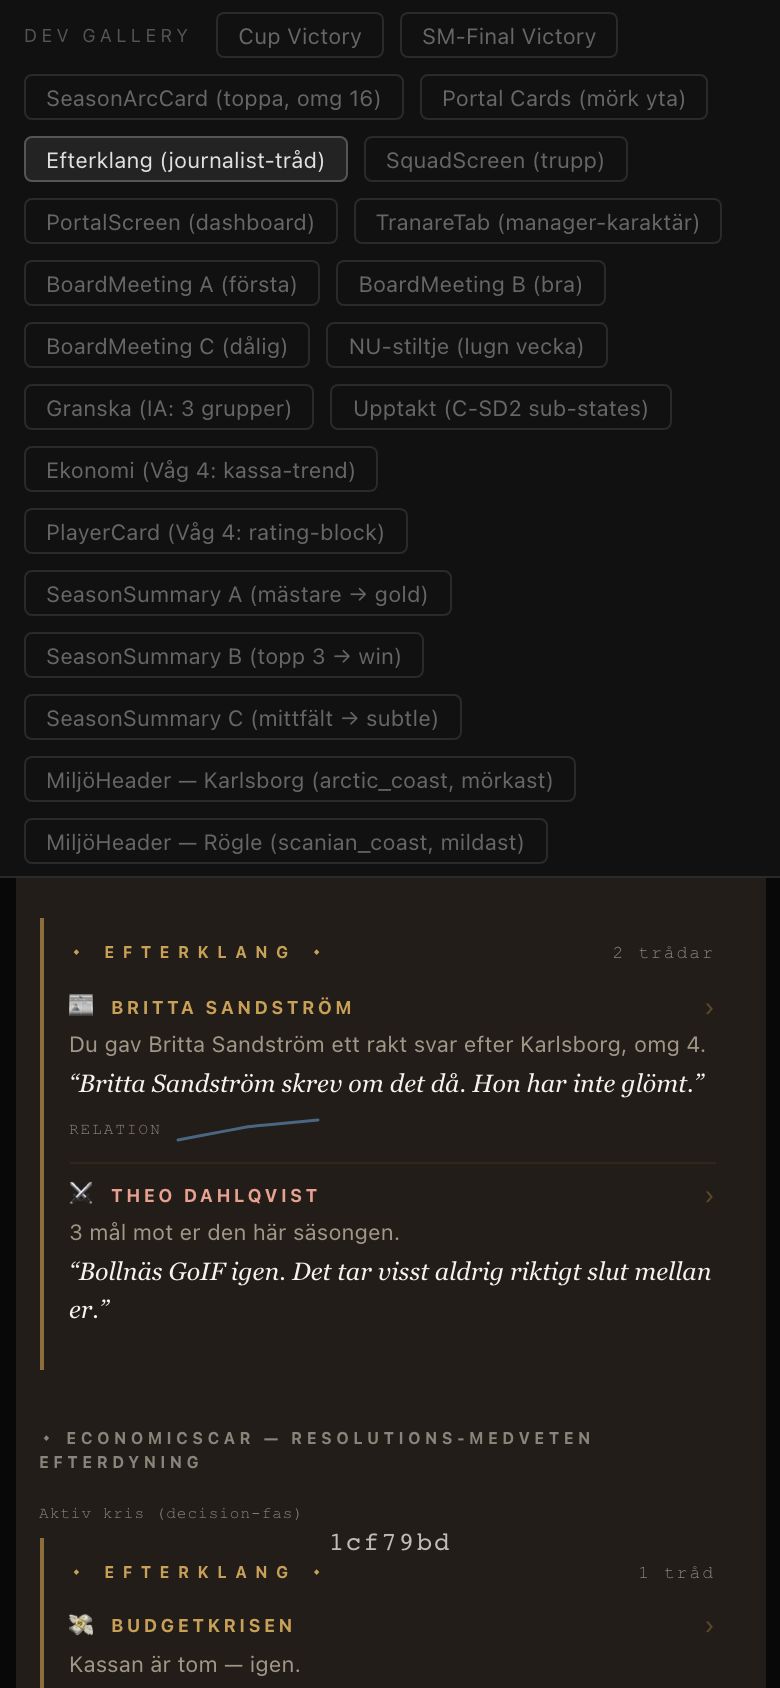
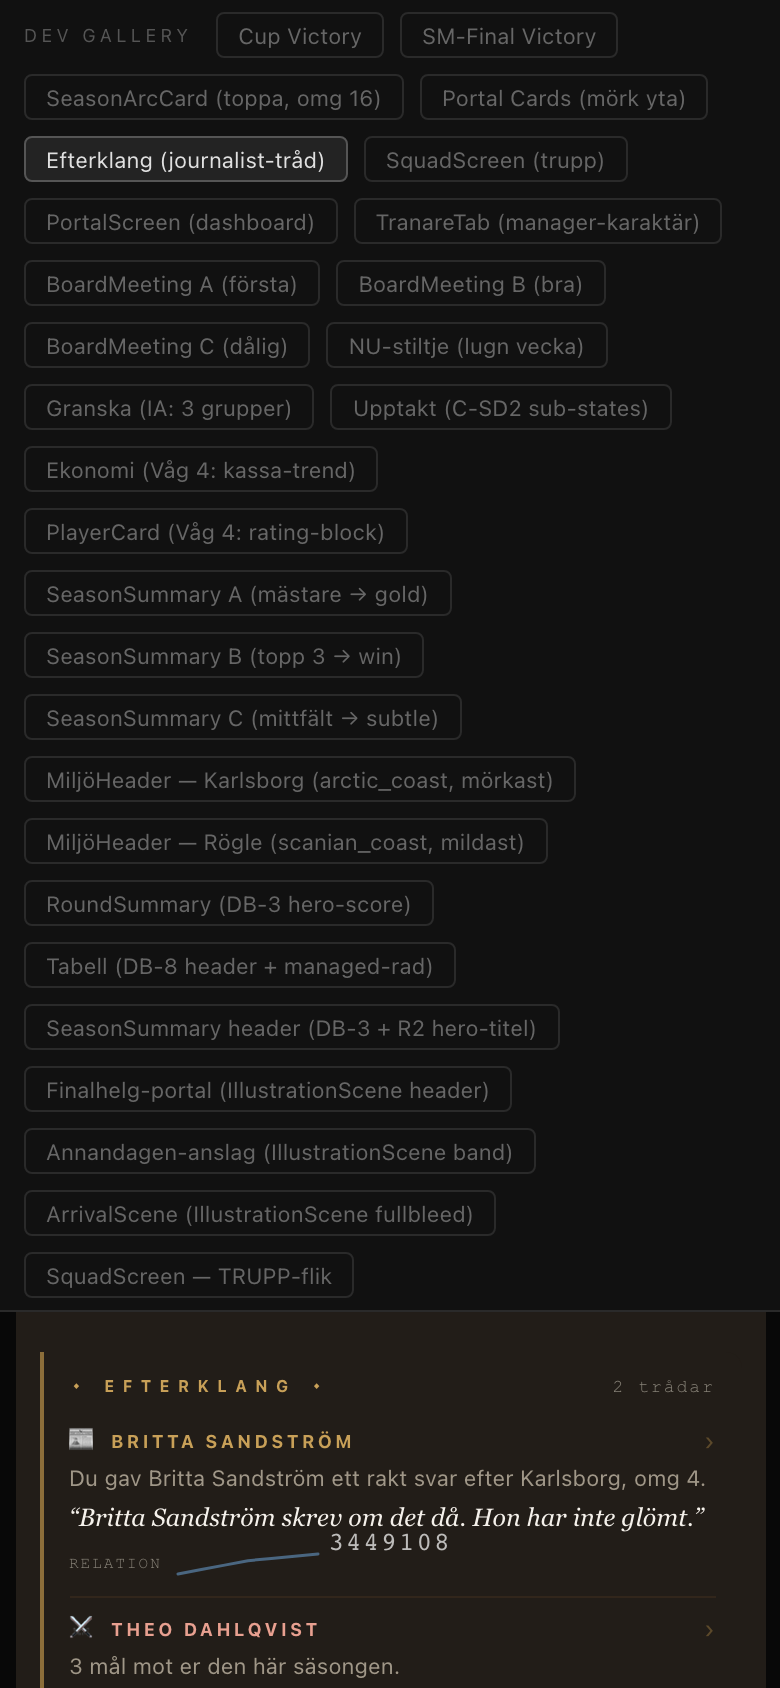
test(dev): full svep-täckning i /dev/scenes — 7 nya ytor + bilage-regen (28 ytor)
Audit-spec task #1 (full headless-täckning) — alla svep-ytor renderar nu isolerat med
fingerad state, så ◉ syn/Playwright kan fånga dem utan live-playtest:
- roundsummary → RoundSummaryScreen (DB-3 hero-score, granskaGame har lastCompletedFixtureId).
- tabell → TabellScreen (DB-8 solid header + managed-rad).
- season-header → SeasonSummaryScreen (game.seasonSummaries) — fångar 52px R2-1-hero-titeln
  + ÅRSBOK-eyebrow + R2-2 btn-hero, som de hand-byggda season-a/b/c-scenerna saknade.
- finalhelg → PortalScreen med playoffBracket.final (pågående) → isSmFinal → IllustrationScene
  header-band.
- annandagen → AnslagOverlay league_midwinter → IllustrationScene band.
- arrival → ArrivalScene → IllustrationScene fullbleed-bakgrund.
- squad-trupp → SquadScreen, capture klickar TRUPP-fliken (selektor 👥 TRUPP för att inte
  träffa dev-navens "SquadScreen (trupp)").

capture-scenes.mjs: stöd för post-load-klick (3:e tuple-element). Bilagan regenererad,
28 ytor, alla gröna (inga CAPTURE FAILED). Verifierat: season-header visar hero-titeln,
finalhelg header-bandet, squad-trupp rätt flik.

Bygg ren. Rör ej matchCore (motor-WIP, committad av motorsidan) eller stash@{0}.

diff --git a/src/presentation/screens/dev/DevScenesScreen.tsx b/src/presentation/screens/dev/DevScenesScreen.tsx
@@ -20,6 +20,11 @@ import { PortalScreen } from '../PortalScreen'
 import { TranareTab } from '../../components/club/TranareTab'
 import { BoardMeetingScene } from '../scenes/BoardMeetingScene'
 import { GranskaScreen } from '../granska/GranskaScreen'
+import { RoundSummaryScreen } from '../RoundSummaryScreen'
+import { TabellScreen } from '../TabellScreen'
+import { SeasonSummaryScreen } from '../SeasonSummaryScreen'
+import { ArrivalScene } from '../ArrivalScene'
+import { AnslagOverlay } from '../../components/anslag/AnslagOverlay'
 import { PortalUpptakt } from '../../components/portal/PortalUpptakt'
 import { NextMatchPrimary } from '../../components/portal/primary/NextMatchPrimary'
 import { EkonomiTab } from '../../components/club/EkonomiTab'
@@ -30,6 +35,7 @@ import { MiljoHeader } from '../../components/environment/MiljoHeader'
 import { useGameStore } from '../../store/gameStore'
 
 type SceneId = 'cup-victory' | 'sm-victory' | 'season-arc' | 'portal-cards' | 'efterklang' | 'squad' | 'portal' | 'tranare' | 'board-a' | 'board-b' | 'board-c' | 'stillness' | 'granska' | 'upptakt' | 'ekonomi' | 'playercard' | 'season-a' | 'season-b' | 'season-c' | 'miljoheader-karlsborg' | 'miljoheader-rogle'
+  | 'roundsummary' | 'tabell' | 'season-header' | 'finalhelg' | 'annandagen' | 'arrival' | 'squad-trupp'
 
 const SCENES: { id: SceneId; label: string }[] = [
   { id: 'cup-victory',  label: 'Cup Victory' },
@@ -53,6 +59,13 @@ const SCENES: { id: SceneId; label: string }[] = [
   { id: 'season-c',     label: 'SeasonSummary C (mittfält → subtle)' },
   { id: 'miljoheader-karlsborg', label: 'MiljöHeader — Karlsborg (arctic_coast, mörkast)' },
   { id: 'miljoheader-rogle', label: 'MiljöHeader — Rögle (scanian_coast, mildast)' },
+  { id: 'roundsummary',  label: 'RoundSummary (DB-3 hero-score)' },
+  { id: 'tabell',        label: 'Tabell (DB-8 header + managed-rad)' },
+  { id: 'season-header', label: 'SeasonSummary header (DB-3 + R2 hero-titel)' },
+  { id: 'finalhelg',     label: 'Finalhelg-portal (IllustrationScene header)' },
+  { id: 'annandagen',    label: 'Annandagen-anslag (IllustrationScene band)' },
+  { id: 'arrival',       label: 'ArrivalScene (IllustrationScene fullbleed)' },
+  { id: 'squad-trupp',   label: 'SquadScreen — TRUPP-flik' },
 ]
 
 // ── Fingered data ────────────────────────────────────────────────────────────
@@ -376,6 +389,18 @@ function makeSeasonSummary(overrides: Record<string, unknown>) {
 const seasonSumChampion = makeSeasonSummary({ finalPosition: 1, playoffResult: 'champion', expectedVerdict: 'exceeded', expectationVerdict: 'exceeded' as const })
 const seasonSumTopThree = makeSeasonSummary({ finalPosition: 2, playoffResult: 'finalist', expectationVerdict: 'met' as const })
 const seasonSumMidtable = makeSeasonSummary({ finalPosition: 6, playoffResult: 'quarterfinal', expectationVerdict: 'met' as const, formTrend: 'stable' as const })
+
+// Full-täcknings-scener (audit-spec task #1) — renderar riktiga skärmar headless.
+// SeasonSummary läser game.seasonSummaries (sista) → hela skärmen inkl. ÅRSBOK/hero-titel/CTA.
+const seasonHeaderGame = makeGame(makeLeagueFixtures(), { seasonSummaries: [seasonSumChampion] })
+// Finalhelg: playoffBracket med managed i en pågående final (winnerId null) → isSmFinal.
+const finalhelgGame = makeGame(makeLeagueFixtures(), {
+  playoffBracket: {
+    season: 8, status: 'final', champion: null,
+    quarterFinals: [], semiFinals: [],
+    final: { id: 'pf-final', round: 'final', homeClubId: HOME_ID, awayClubId: AWAY_ID, fixtures: [], homeWins: 1, awayWins: 1, winnerId: null, loserId: null },
+  },
+})
 const seasonGameA = makeGame(makeLeagueFixtures(), { seasonSummaries: [seasonSumChampion] })
 const seasonGameB = makeGame(makeLeagueFixtures(), { seasonSummaries: [seasonSumTopThree] })
 const seasonGameC = makeGame(makeLeagueFixtures(), { seasonSummaries: [seasonSumMidtable] })
@@ -423,6 +448,8 @@ export function DevScenesScreen() {
     : null) as SceneId | null
   const [scene, setScene] = useState<SceneId>(initialScene ?? 'cup-victory')
   const storeReady = useGameStore(s => s.game?.lastCompletedFixtureId === 'fx-granska')
+  const seasonReady = useGameStore(s => (s.game?.seasonSummaries?.length ?? 0) > 0)
+  const finalReady = useGameStore(s => !!s.game?.playoffBracket?.final)
 
   // Seed the store so all screens that call useGameStore() work
   useEffect(() => {
@@ -439,6 +466,10 @@ export function DevScenesScreen() {
       : scene === 'season-a' ? seasonGameA
       : scene === 'season-b' ? seasonGameB
       : scene === 'season-c' ? seasonGameC
+      : scene === 'roundsummary' || scene === 'tabell' ? granskaGame
+      : scene === 'season-header' ? seasonHeaderGame
+      : scene === 'finalhelg' ? finalhelgGame
+      : scene === 'arrival' || scene === 'squad-trupp' || scene === 'annandagen' ? squadGame
       : portalGame
     useGameStore.setState({ game: g, roundSummary: scene === 'granska' ? granskaRoundSummary : null } as never)
   }, [scene])
@@ -557,6 +588,43 @@ export function DevScenesScreen() {
         {scene === 'portal' && (
           <div style={{ height: '812px', overflow: 'hidden', position: 'relative' }}>
             <PortalScreen />
+          </div>
+        )}
+
+        {/* Full-täcknings-scener (audit-spec task #1) */}
+        {scene === 'roundsummary' && storeReady && (
+          <div style={{ height: '812px', overflow: 'hidden', position: 'relative' }}>
+            <RoundSummaryScreen />
+          </div>
+        )}
+        {scene === 'tabell' && storeReady && (
+          <div style={{ height: '812px', overflow: 'hidden', position: 'relative' }}>
+            <TabellScreen />
+          </div>
+        )}
+        {scene === 'season-header' && seasonReady && (
+          <div style={{ height: '812px', overflow: 'auto', position: 'relative' }}>
+            <SeasonSummaryScreen />
+          </div>
+        )}
+        {scene === 'finalhelg' && finalReady && (
+          <div style={{ height: '812px', overflow: 'hidden', position: 'relative' }}>
+            <PortalScreen />
+          </div>
+        )}
+        {scene === 'arrival' && (
+          <div style={{ height: '812px', overflow: 'hidden', position: 'relative' }}>
+            <ArrivalScene />
+          </div>
+        )}
+        {scene === 'squad-trupp' && (
+          <div style={{ height: '812px', overflow: 'hidden', position: 'relative' }}>
+            <SquadScreen />
+          </div>
+        )}
+        {scene === 'annandagen' && (
+          <div style={{ height: '812px', overflow: 'hidden', position: 'relative' }}>
+            <AnslagOverlay game={squadGame} anslagKey={'league_midwinter' as never} onDismiss={() => {}} />
           </div>
         )}
 

diff --git a/screenshots/audit/INDEX.md b/screenshots/audit/INDEX.md
@@ -4,7 +4,7 @@ Genererad av `scripts/capture-scenes.mjs` ur /dev/scenes (deterministisk fingera
 Jacob godkänner det visuella svepet via denna bilaga — ingen live-session krävs.
 Regenerera: starta servern + `node scripts/capture-scenes.mjs`.
 
-21 ytor.
+28 ytor.
 
 ---
 
@@ -133,3 +133,45 @@ Regenerera: starta servern + `node scripts/capture-scenes.mjs`.
 `miljoheader-rogle`
 
 ![miljoheader-rogle](./miljoheader-rogle.png)
+
+### RoundSummary (DB-3 hero-score → ScoreBlock)
+
+`roundsummary`
+
+![roundsummary](./roundsummary.png)
+
+### Tabell (DB-8 solid header + managed-rad)
+
+`tabell`
+
+![tabell](./tabell.png)
+
+### SeasonSummary header (DB-3 + R2-1 hero-titel + R2-2 btn-hero)
+
+`season-header`
+
+![season-header](./season-header.png)
+
+### Finalhelg-portal (IllustrationScene header-band)
+
+`finalhelg`
+
+![finalhelg](./finalhelg.png)
+
+### Annandagen-anslag (IllustrationScene band)
+
+`annandagen`
+
+![annandagen](./annandagen.png)
+
+### ArrivalScene (IllustrationScene fullbleed-bakgrund)
+
+`arrival`
+
+![arrival](./arrival.png)
+
+### SquadScreen — TRUPP-flik (DB-5 stripe + R2-3 chips)
+
+`squad-trupp`
+
+![squad-trupp](./squad-trupp.png)
